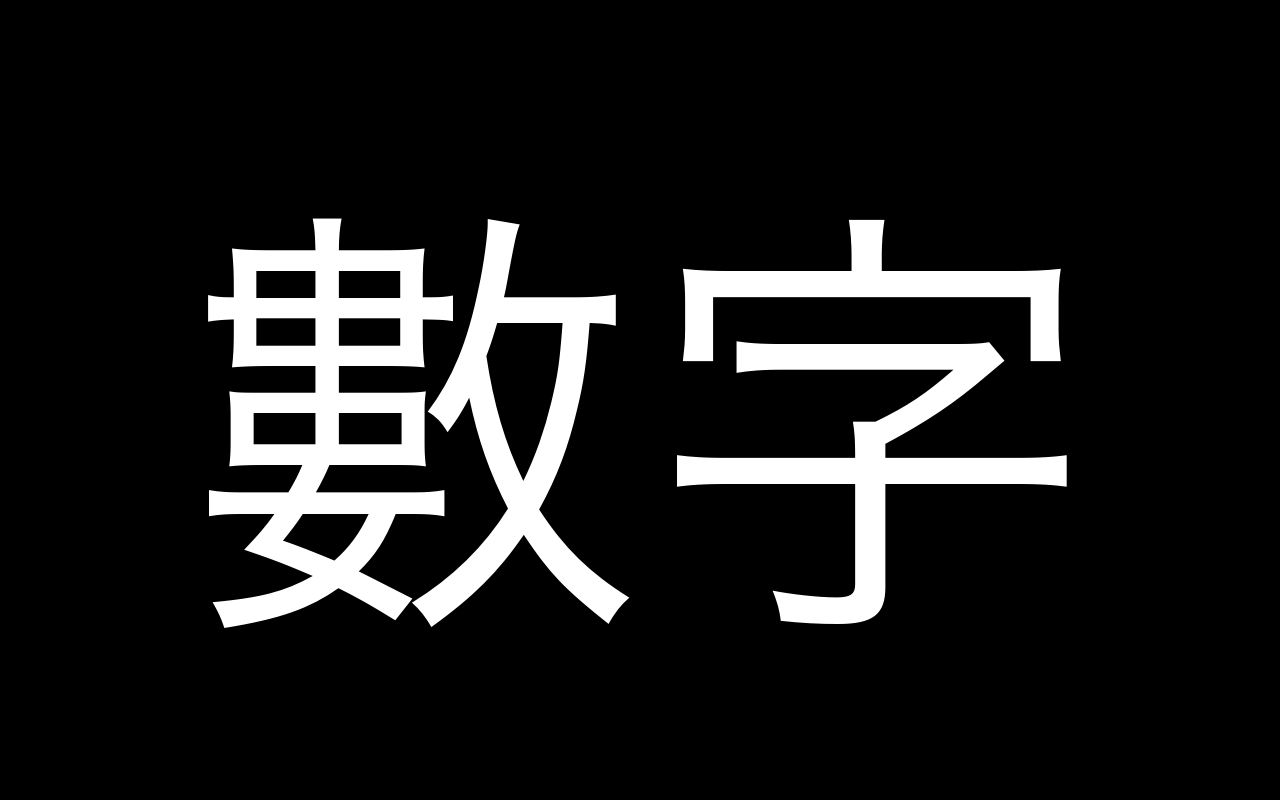
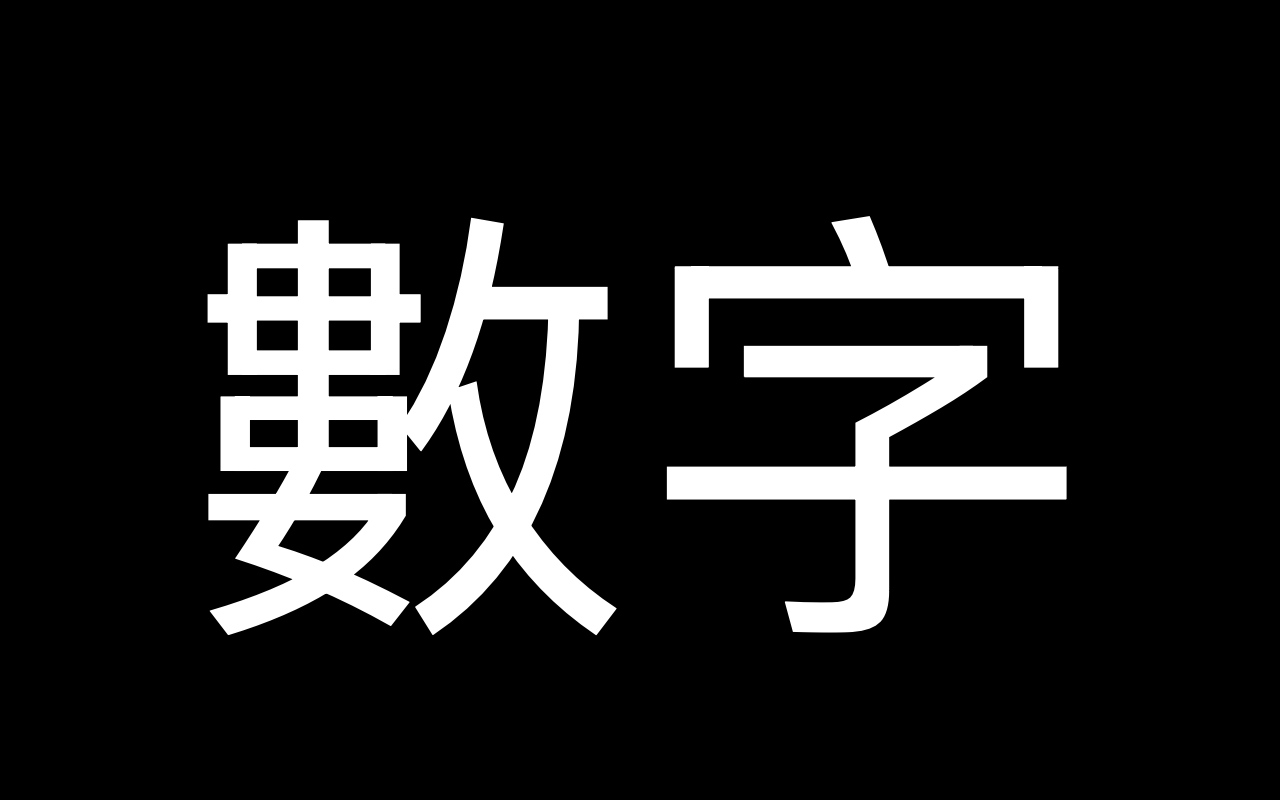
chore: render screenshot with PingFang TC
Use macOS native font rendering so installed fonts such as PingFang TC are available without ImageMagick.

Changed region(s): [[0.1562, 0.25, 0.8438, 0.8125], [0.1562, 0.75, 0.1875, 0.8125]]

diff --git a/scripts/create-chrome-store-screenshot.swift b/scripts/create-chrome-store-screenshot.swift
@@ -1,0 +1,57 @@
+#!/usr/bin/env swift
+
+import AppKit
+import Foundation
+
+guard (3...4).contains(CommandLine.arguments.count) else {
+    fputs("Usage: create-chrome-store-screenshot.swift <text> <output.png> [font]\n", stderr)
+    exit(64)
+}
+
+let text = CommandLine.arguments[1]
+let output = CommandLine.arguments[2]
+let fontName = CommandLine.arguments.count == 4 ? CommandLine.arguments[3] : "PingFangTC-Regular"
+
+guard let font = NSFont(name: fontName, size: 451) else {
+    fputs("Error: Font not found: \(fontName)\n", stderr)
+    exit(1)
+}
+
+guard let bitmap = NSBitmapImageRep(
+    bitmapDataPlanes: nil,
+    pixelsWide: 1280,
+    pixelsHigh: 800,
+    bitsPerSample: 8,
+    samplesPerPixel: 4,
+    hasAlpha: true,
+    isPlanar: false,
+    colorSpaceName: .deviceRGB,
+    bytesPerRow: 0,
+    bitsPerPixel: 0
+), let context = NSGraphicsContext(bitmapImageRep: bitmap) else {
+    fputs("Error: Could not create a 1280x800 bitmap\n", stderr)
+    exit(1)
+}
+
+NSGraphicsContext.saveGraphicsState()
+NSGraphicsContext.current = context
+NSColor.black.setFill()
+NSRect(x: 0, y: 0, width: 1280, height: 800).fill()
+
+let renderedText = NSAttributedString(string: text, attributes: [.font: font, .foregroundColor: NSColor.white, .kern: 8])
+let textSize = renderedText.size()
+renderedText.draw(at: NSPoint(x: (1280 - textSize.width) / 2 + 1, y: (800 - textSize.height) / 2 - 26))
+context.flushGraphics()
+NSGraphicsContext.restoreGraphicsState()
+
+guard let png = bitmap.representation(using: .png, properties: [:]) else {
+    fputs("Error: Could not encode PNG\n", stderr)
+    exit(1)
+}
+
+do {
+    try png.write(to: URL(fileURLWithPath: output))
+} catch {
+    fputs("Error: Could not write \(output): \(error.localizedDescription)\n", stderr)
+    exit(1)
+}
